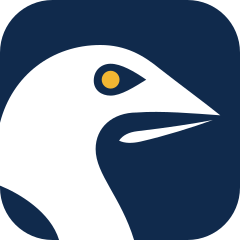
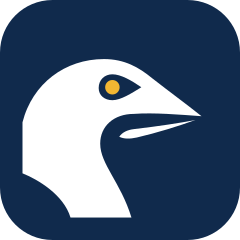
fix: Gannet with a capital, and its tile with the navy band (#10)

Changed region(s): [[0.0, 0.175, 0.9333, 1.0], [0.4375, 0.4958, 0.4667, 0.525]]

diff --git a/profile/README.md b/profile/README.md
@@ -69,7 +69,7 @@ A toolkit rather than a single tool, and the agent skill is one part of it:
 
 [**heliograph-io/heliograph**](https://github.com/heliograph-io/heliograph) &middot; [docs.heliograph.io](https://docs.heliograph.io) &middot; [heliograph-relay](https://github.com/heliograph-io/heliograph-relay) &middot; Apache 2.0, and FSL-1.1-ALv2 for the relay
 
-<h4><a href="https://gannet.dbhq.uk"><img src="https://raw.githubusercontent.com/dbhq-uk/.github/main/profile/assets/gannet-240.png" alt="" width="24" align="top"></a> gannet</h4>
+<h4><a href="https://gannet.dbhq.uk"><img src="https://raw.githubusercontent.com/dbhq-uk/.github/main/profile/assets/gannet-240.png" alt="" width="24" align="top"></a> Gannet</h4>
 
 **An open-source deep research agent, built to cite every claim. In development, not released yet**
 
